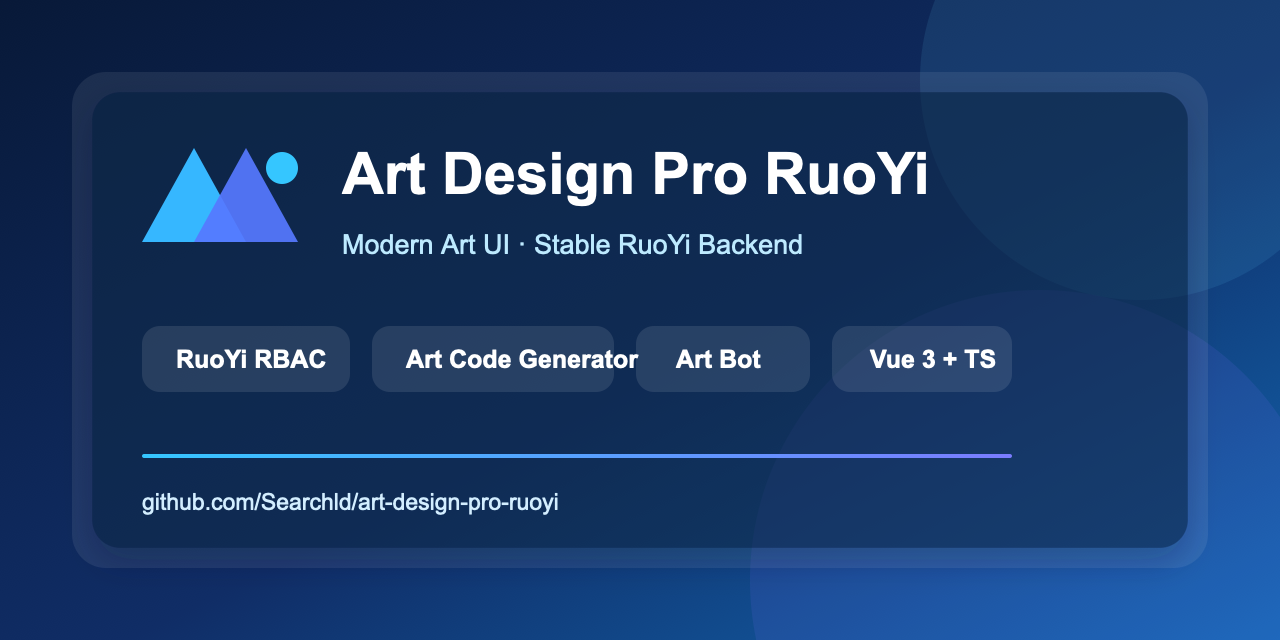
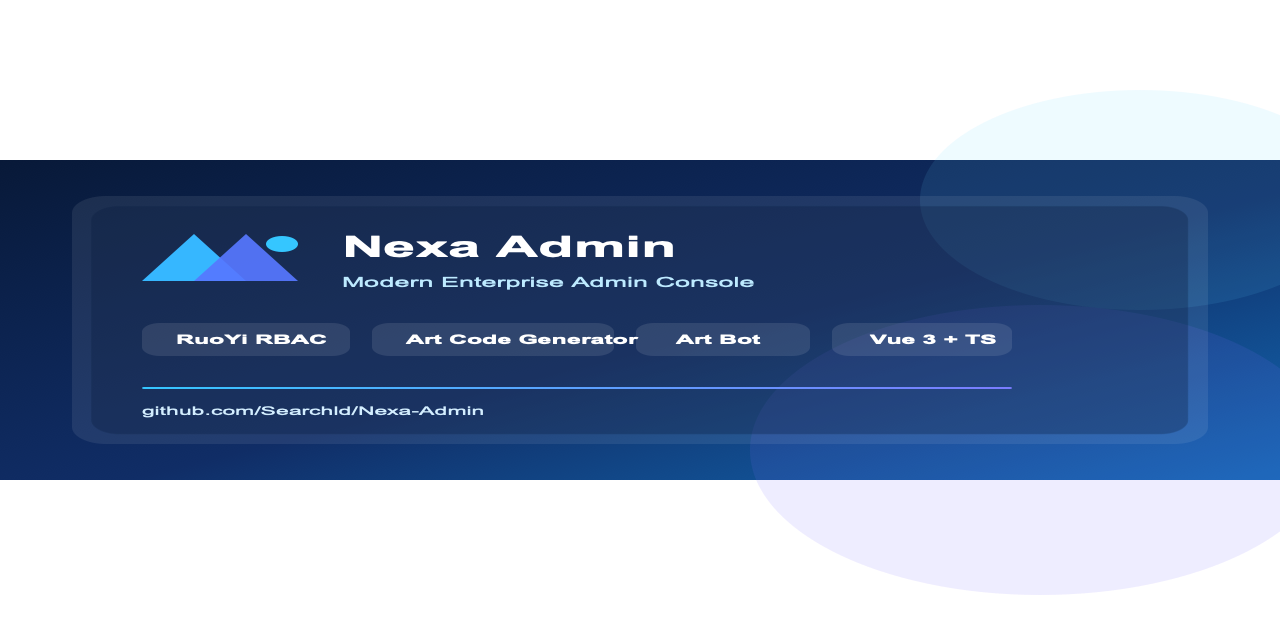
Polish GitHub project presentation

diff --git a/README.md b/README.md
@@ -14,12 +14,12 @@ Nexa Admin 保留成熟的权限体系、系统管理、系统监控与代码生
 
 > 产品名统一为 Nexa Admin，底层继续复用已有后端能力与前端封装，避免重写稳定业务逻辑。
 
-仓库地址：[Searchld/nexa-admin](https://github.com/Searchld/nexa-admin)
+仓库地址：[Searchld/Nexa-Admin](https://github.com/Searchld/Nexa-Admin)
 
 ## 快速入口
 
 - 在线演示：[https://art.beta.kim/](https://art.beta.kim/)
-- 版本发布：[v1.0.0](https://github.com/Searchld/nexa-admin/releases/tag/v1.0.0)
+- 版本发布：[v1.0.0](https://github.com/Searchld/Nexa-Admin/releases/tag/v1.0.0)
 - 实施说明：[docs/ruoyi-art-plan.md](docs/ruoyi-art-plan.md)
 - 部署说明：[docs/deployment.md](docs/deployment.md)
 - 路线图：[ROADMAP.md](ROADMAP.md)
@@ -398,9 +398,6 @@ http://localhost:3006
 | `sql/20260602_add_user_ui_setting.sql` | 将界面风格改为按用户 ID 入库 |
 | `sql/20260602_tighten_cache_permissions.sql` | 拆分缓存详情与缓存清理权限 |
 | `sql/20260613_add_device_management.sql` | 增加设备管理数据表、菜单和权限 |
-| `sql/20260623_add_spring_ai_agent.sql` | 增加 Spring AI Agent、知识库、工作流和权限 |
-| `sql/20260623_seed_agent_workflows.sql` | 初始化 Agent 工作流示例 |
-| `sql/20260623_seed_shandong_gold_mining_kb.sql` | 初始化山东黄金矿山行业知识库 |
 
 ## 加入微信交流群
 